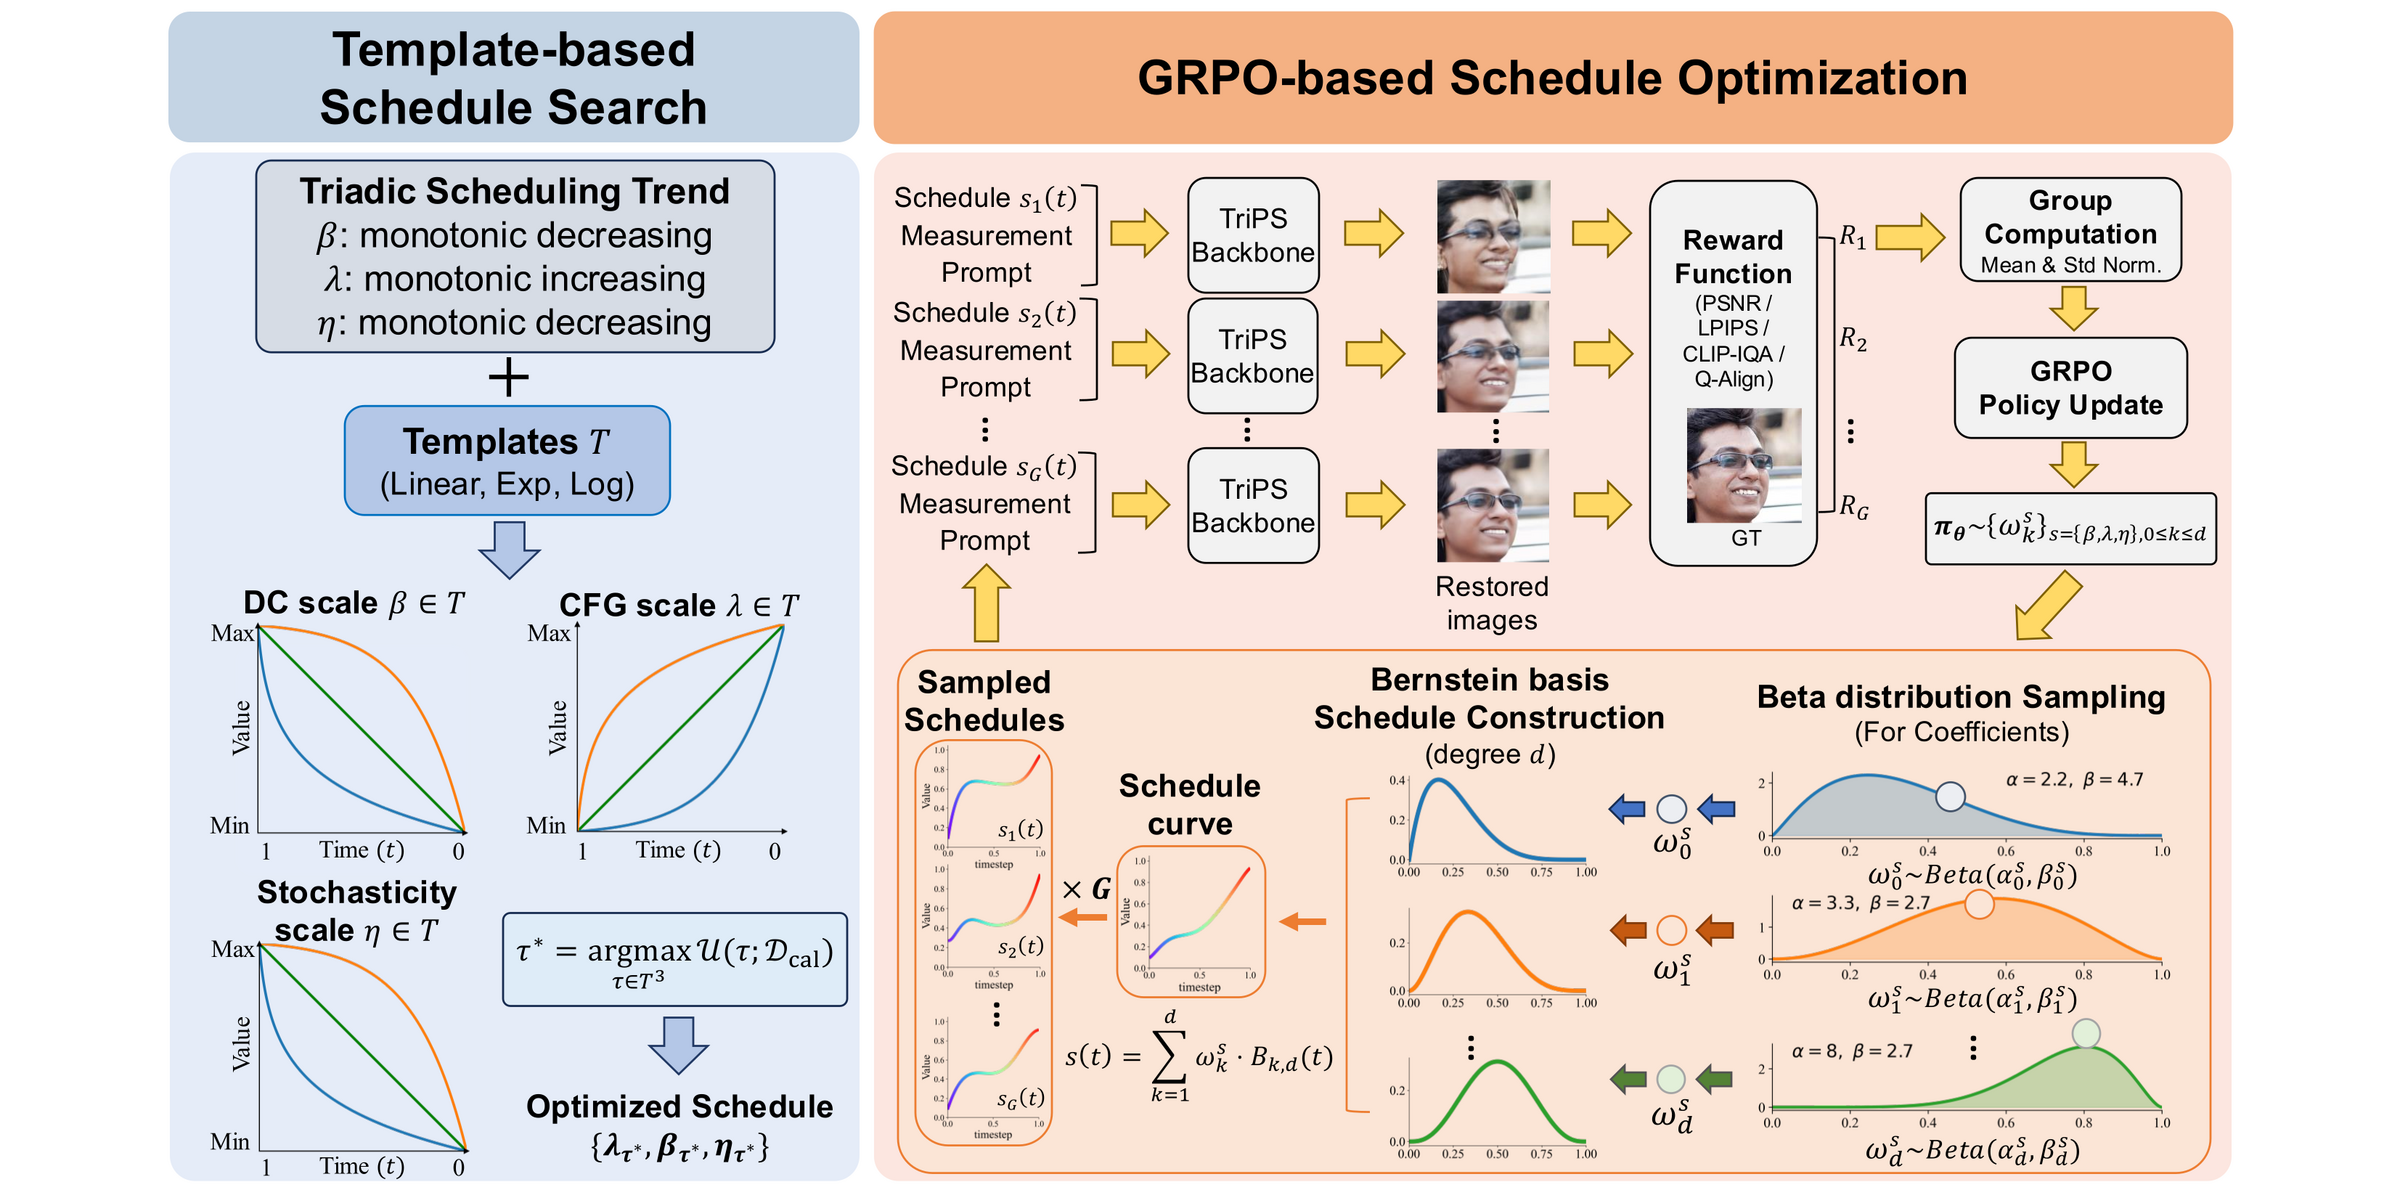
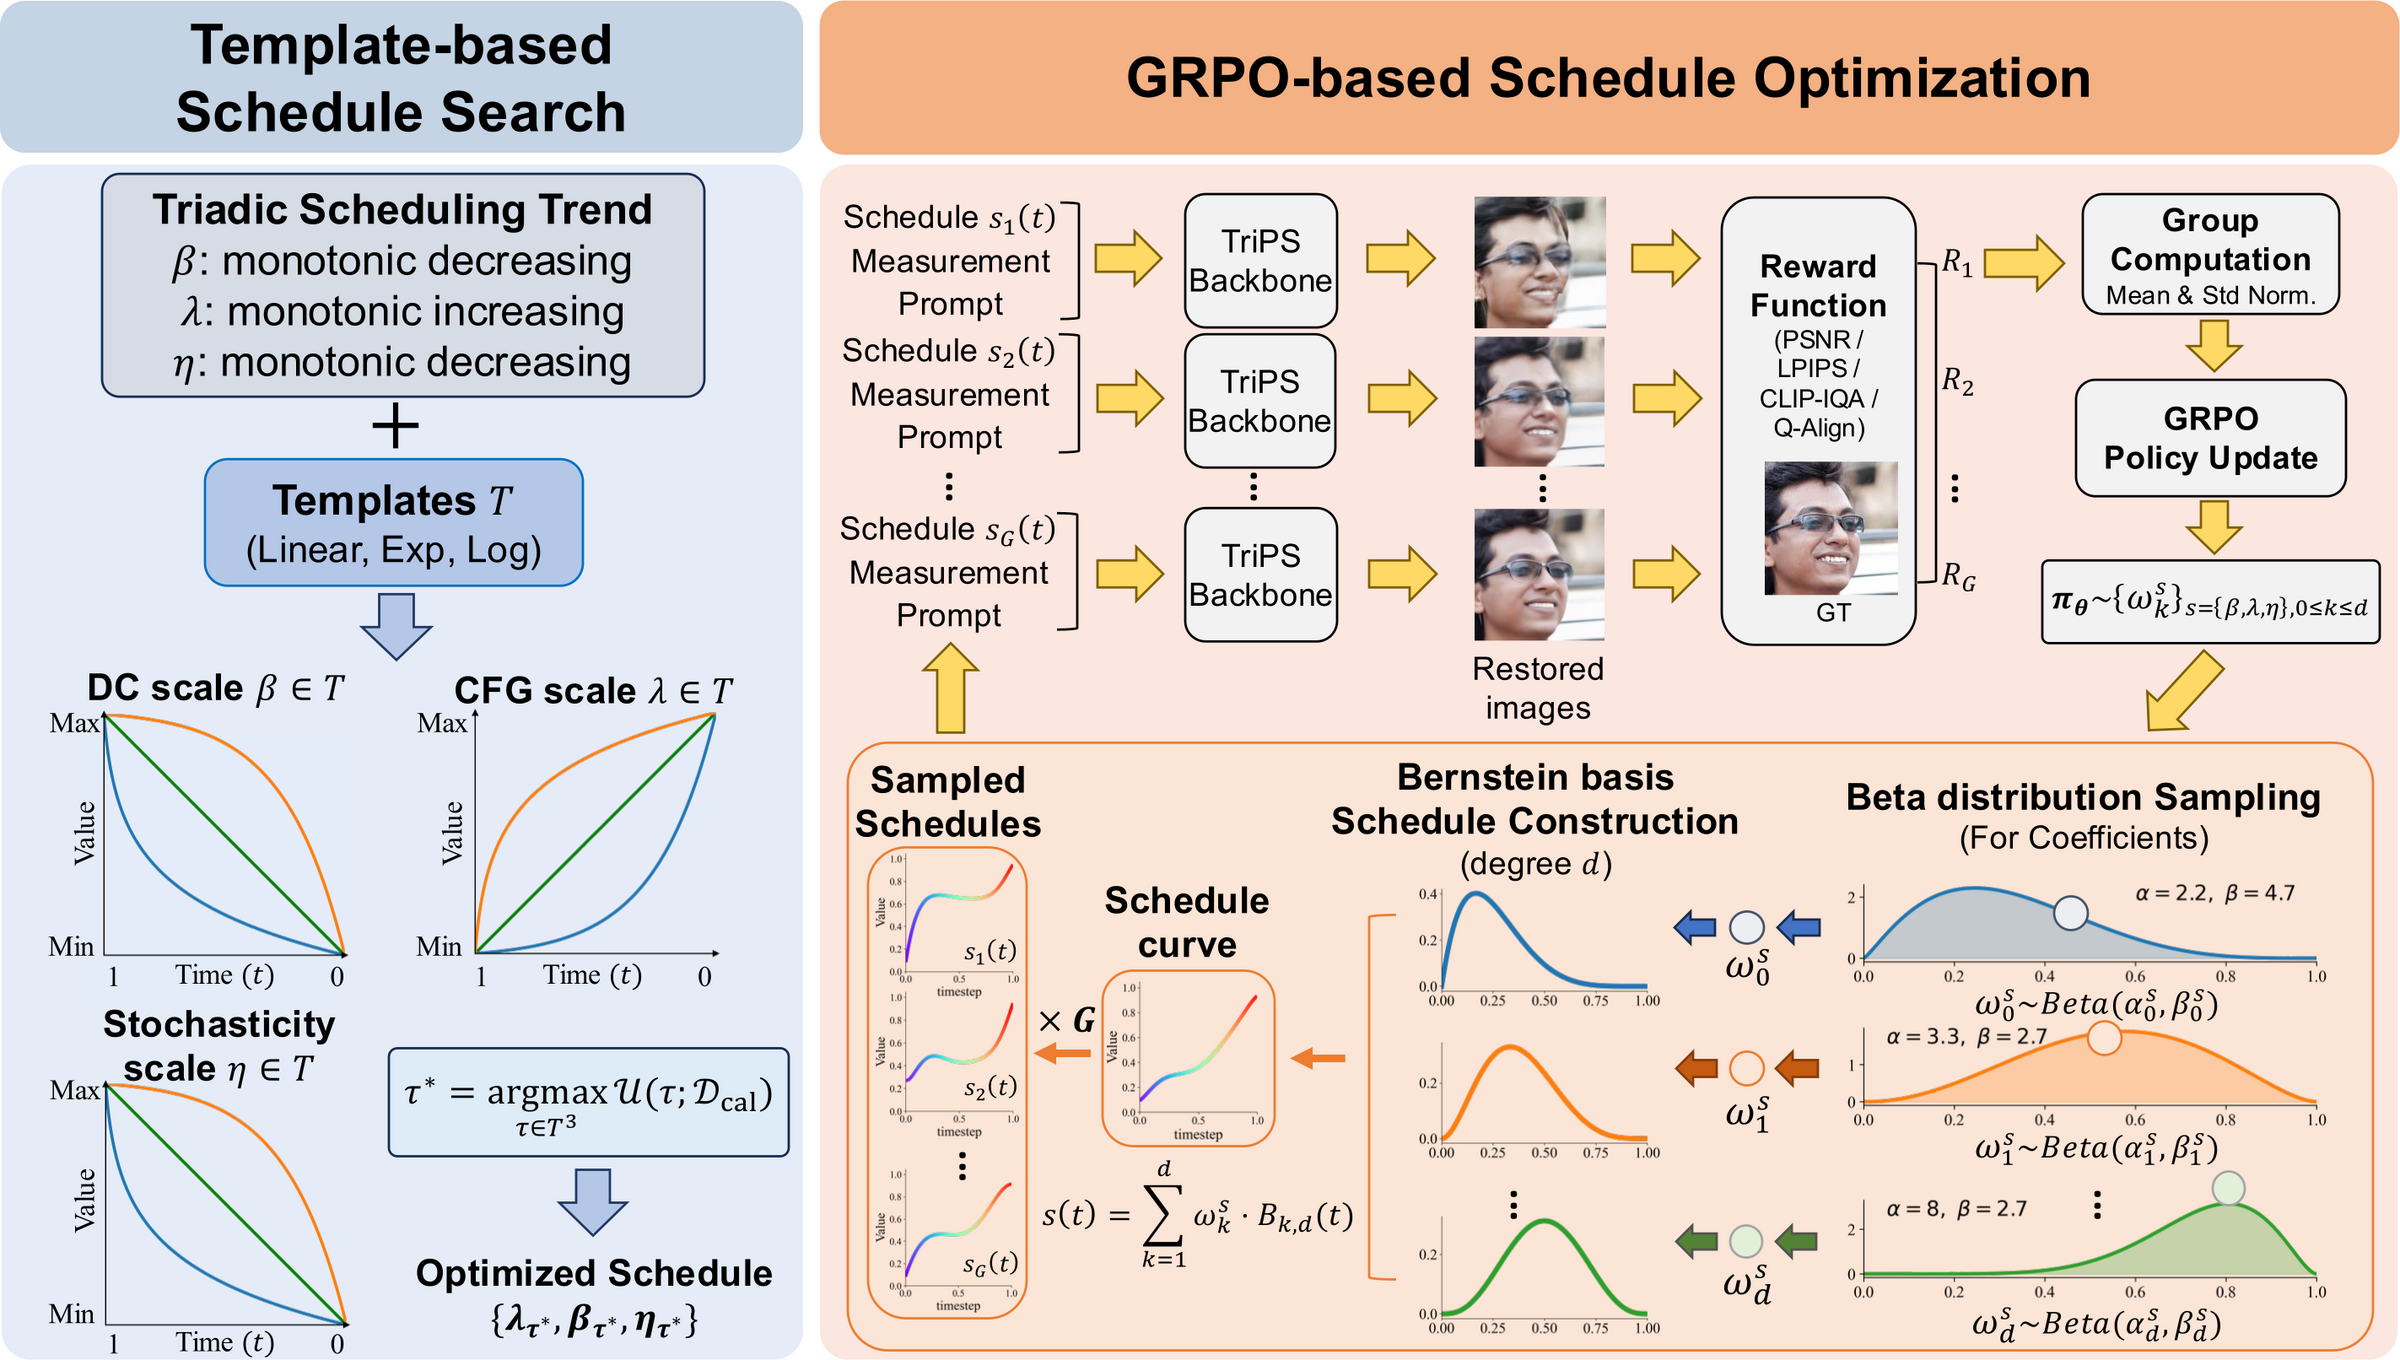
Apply page feedback: title, key idea, figures

diff --git a/docs/index.html b/docs/index.html
@@ -27,8 +27,8 @@
   <div class="hero2-scrim" aria-hidden="true"></div>
 
   <div class="hero2-card">
-    <h1 class="title is-2 paper-title">Triadic Dynamics Aware Diffusion Posterior Sampling for Inverse Problems</h1>
-    <p class="subtitle is-4 paper-subtitle">Optimizing Guidance and Stochasticity Schedules</p>
+    <h1 class="title is-2 paper-title">Triadic Dynamics Aware Diffusion Posterior Sampling for Inverse Problems:</h1>
+    <p class="title is-2 paper-subtitle">Optimizing Guidance and Stochasticity Schedules</p>
     <div class="venue-badge"><i class="fa-solid fa-star"></i>&nbsp; ICML 2026</div>
 
     <div class="author-list">
@@ -57,16 +57,17 @@
 <section class="section">
   <div class="container is-max-desktop">
     <p class="section-tag has-text-centered">Key Idea</p>
-    <h2 class="title is-3 has-text-centered">Posterior sampling as a time-varying control problem</h2>
+    <h2 class="title is-3 has-text-centered">Posterior sampling as an optimization problem of time-varying schedules</h2>
     <p class="lead has-text-centered" style="max-width:840px;margin:0 auto 1.6rem;">
-      Generative posterior sampling for inverse problems combines three components: <b>data consistency (DC) guidance</b>,
-      <b>classifier-free guidance (CFG)</b>, and <b>stochasticity</b>. While prior arts focus on how to <i>develop</i> each
-      component, less attention has been given to <i>how to schedule</i> them, leading to heuristically fixed or partially
-      adjusted, suboptimal schedules. TriPS instead reformulates posterior sampling as a <b>time-varying control problem</b>
-      and jointly optimizes the three schedules along a triadic trend.
+      Generative posterior sampling for inverse problems usually consists of three main components:
+      <b>data consistency (DC) guidance</b>, <b>classifier-free guidance (CFG)</b>, and <b>stochasticity</b>.
+      While prior arts have focused on how to <i>develop</i> each or all components, less attention has been given to
+      <i>how to schedule</i> them, leading to heuristically fixed or partially adjusted suboptimal schedules. TriPS instead
+      reformulates posterior sampling as an <b>optimization problem of time-varying schedules</b> and jointly optimizes the
+      three schedules along a triadic trend.
     </p>
 
-    <figure class="fig" style="max-width:430px;margin:0 auto;">
+    <figure class="fig" style="max-width:600px;margin:0 auto;">
       <div class="fig-frame"><img src="static/images/Key_Idea_triadic.jpg" alt="TriPS key idea: the triadic coupling"></div>
       <figcaption>
         The three components form a <b>coupled triad</b>: aggressive CFG early in sampling conflicts with DC guidance and
@@ -79,15 +80,15 @@
     <div class="pillars">
       <div class="pillar">
         <h4><span class="dot" style="background:var(--dc)"></span> DC guidance · β(t) <span class="trend" style="color:var(--dc)">&#8595;</span></h4>
-        <p>Set high early to strongly enforce data consistency with the measurement, then reduced to avoid over-enforcing consistency, which can inject measurement noise into the output.</p>
+        <p>High early to strongly enforce data consistency, then reduced to avoid over-enforcing it.</p>
       </div>
       <div class="pillar">
         <h4><span class="dot" style="background:var(--cfg)"></span> CFG · λ(t) <span class="trend" style="color:var(--cfg)">&#8593;</span></h4>
-        <p>Kept low early to suppress the early-stage guidance conflict, then increased to leverage its mode-seeking property and sharpen semantics for enhanced fidelity.</p>
+        <p>Low early to suppress the guidance conflict, then increased to sharpen semantics.</p>
       </div>
       <div class="pillar">
         <h4><span class="dot" style="background:var(--sto)"></span> Stochasticity · η(t) <span class="trend" style="color:var(--sto)">&#8595;</span></h4>
-        <p>Set high early to regularize the off-manifold phenomenon induced by DC guidance and CFG, then annealed, since late-stage stochasticity introduces sampling errors.</p>
+        <p>High early to regularize the off-manifold phenomenon, then annealed to reduce sampling error.</p>
       </div>
     </div>
   </div>
@@ -130,7 +131,7 @@
       sampling trajectories toward higher-probability regions.
     </p>
 
-    <div class="columns is-variable is-6">
+    <div class="columns is-variable is-6 is-vcentered analysis-cols">
       <div class="column">
         <figure class="fig">
           <div class="fig-frame"><img src="static/images/Fig_Analysis_1.png" data-pdf="static/pdfs/Fig_Analysis_1.pdf" alt="Early stage guidance conflict"></div>
@@ -178,19 +179,17 @@
       <div class="column">
         <div class="pillar" style="height:100%">
           <h4>TriPS<sub>T</sub> · Template-based schedule search</h4>
-          <p>Each schedule is one of {linear, exponential, logarithmic} with bounded magnitudes (λ&#8712;[1, 6],
-          η&#8712;[0, 1], β&#8712;[β<sub>min</sub>, β<sub>max</sub>]). A grid search over the template triple maximizes a
-          multi-objective utility balancing fidelity (PSNR) and perceptual quality (LPIPS) on a small calibration set,
-          providing a robust baseline and a warm start for GRPO.</p>
+          <p>A coarse grid search over a discrete template family {linear, exponential, logarithmic} that satisfies the
+          triadic trend, maximizing a multi-objective utility of fidelity (PSNR) and perceptual quality (LPIPS). Provides a
+          robust baseline and a warm start for GRPO.</p>
         </div>
       </div>
       <div class="column">
         <div class="pillar" style="height:100%">
           <h4>TriPS<sub>G</sub> · GRPO-based schedule optimization</h4>
-          <p>Each schedule is a Bernstein polynomial whose coefficients are sampled from Beta distributions, so the convex
-          hull and partition-of-unity properties confine every curve to a physically valid range. The policy is optimized
-          with a clipped GRPO objective and a KL anchor to the TriPS<sub>T</sub> reference, driven by a hybrid reward that
-          combines distortion (PSNR) and perceptual metrics (LPIPS, CLIP-IQA+, Q-Align).</p>
+          <p>Each schedule is a Bernstein polynomial with coefficients sampled from Beta distributions, confining every curve
+          to a physically valid range. The policy is optimized with a clipped GRPO objective and a hybrid IQA reward
+          combining distortion and perceptual metrics.</p>
         </div>
       </div>
     </div>

diff --git a/docs/static/css/index.css b/docs/static/css/index.css
@@ -31,8 +31,9 @@ hr.soft{ border:0; border-top:1px solid var(--line); margin:2.4rem auto; max-wid
   background:rgba(255,255,255,.72); backdrop-filter:blur(10px); -webkit-backdrop-filter:blur(10px);
   border:1px solid rgba(255,255,255,.55); border-radius:22px; padding:2.1rem 1.8rem 1.8rem;
   box-shadow:0 28px 70px rgba(0,0,0,.45); }
-.paper-title{ font-weight:800; line-height:1.16; letter-spacing:-.01em; margin-bottom:.35rem; }
-.paper-subtitle{ color:var(--soft); font-weight:600; }
+.paper-title{ font-weight:800; line-height:1.16; letter-spacing:-.01em; margin-bottom:.15rem; font-size:2rem; }
+.paper-subtitle{ color:var(--soft); font-weight:800; line-height:1.16; letter-spacing:-.01em; margin-bottom:.35rem; font-size:2rem; }
+@media(max-width:768px){ .paper-title,.paper-subtitle{ font-size:1.5rem; } }
 .venue-badge{ display:inline-block; margin:.55rem 0 1rem; padding:.28rem .95rem; border-radius:999px;
   background:#10131a; color:#fff; font-weight:700; font-size:.84rem; letter-spacing:.03em; }
 .author-list{ font-size:1.15rem; line-height:1.9; }
@@ -62,6 +63,17 @@ figure.fig figcaption b{ color:var(--ink); }
 .pillar h4{ font-weight:800; font-size:1.04rem; margin-bottom:.3rem; display:flex; align-items:center; gap:.5rem; }
 .pillar p{ color:var(--soft); font-size:.95rem; line-height:1.6; }
 .trend{ font-weight:800; } .dot{ width:12px; height:12px; border-radius:50%; display:inline-block; }
+
+/* ---------------- analysis: side-by-side, equal-height, centered ---------------- */
+.analysis-cols{ display:flex; flex-wrap:nowrap; align-items:center; gap:1.5rem; }
+.analysis-cols .column{ flex:1 1 0; min-width:0; }
+.analysis-cols .fig-frame{ height:300px; display:flex; align-items:center; justify-content:center; }
+.analysis-cols .fig-frame img{ width:auto; height:100%; max-width:100%; object-fit:contain; }
+@media(max-width:768px){
+  .analysis-cols{ flex-direction:column; }
+  .analysis-cols .fig-frame{ height:auto; }
+  .analysis-cols .fig-frame img{ width:100%; height:auto; }
+}
 
 /* ---------------- qualitative viewer (FLAIR-style, paged grid) ---------------- */
 .quali-viewer{ position:relative; max-width:1180px; margin:0 auto; }
